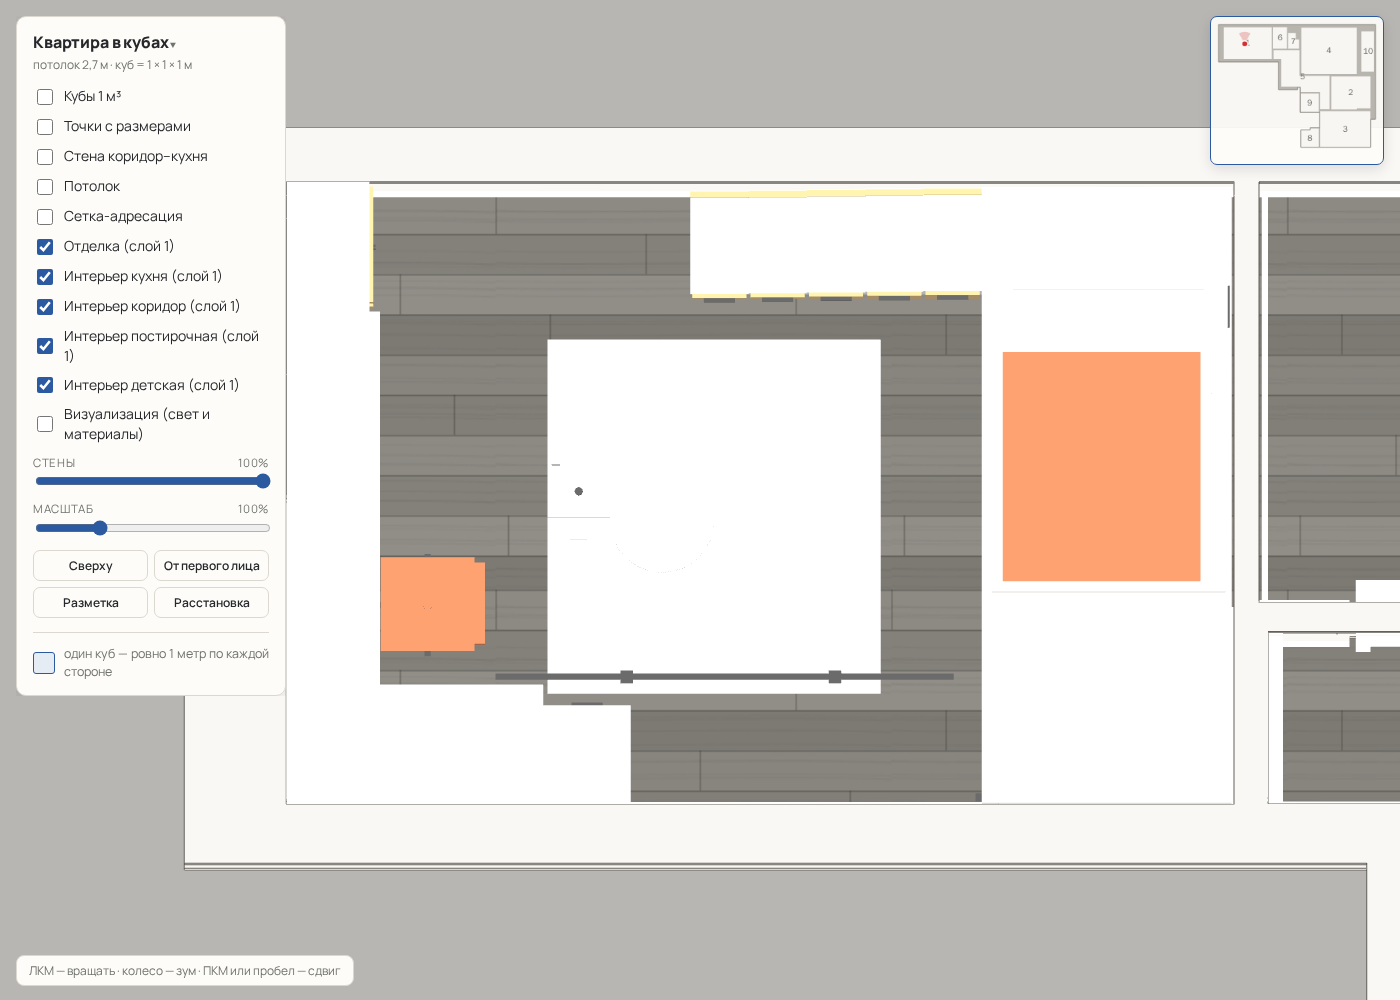
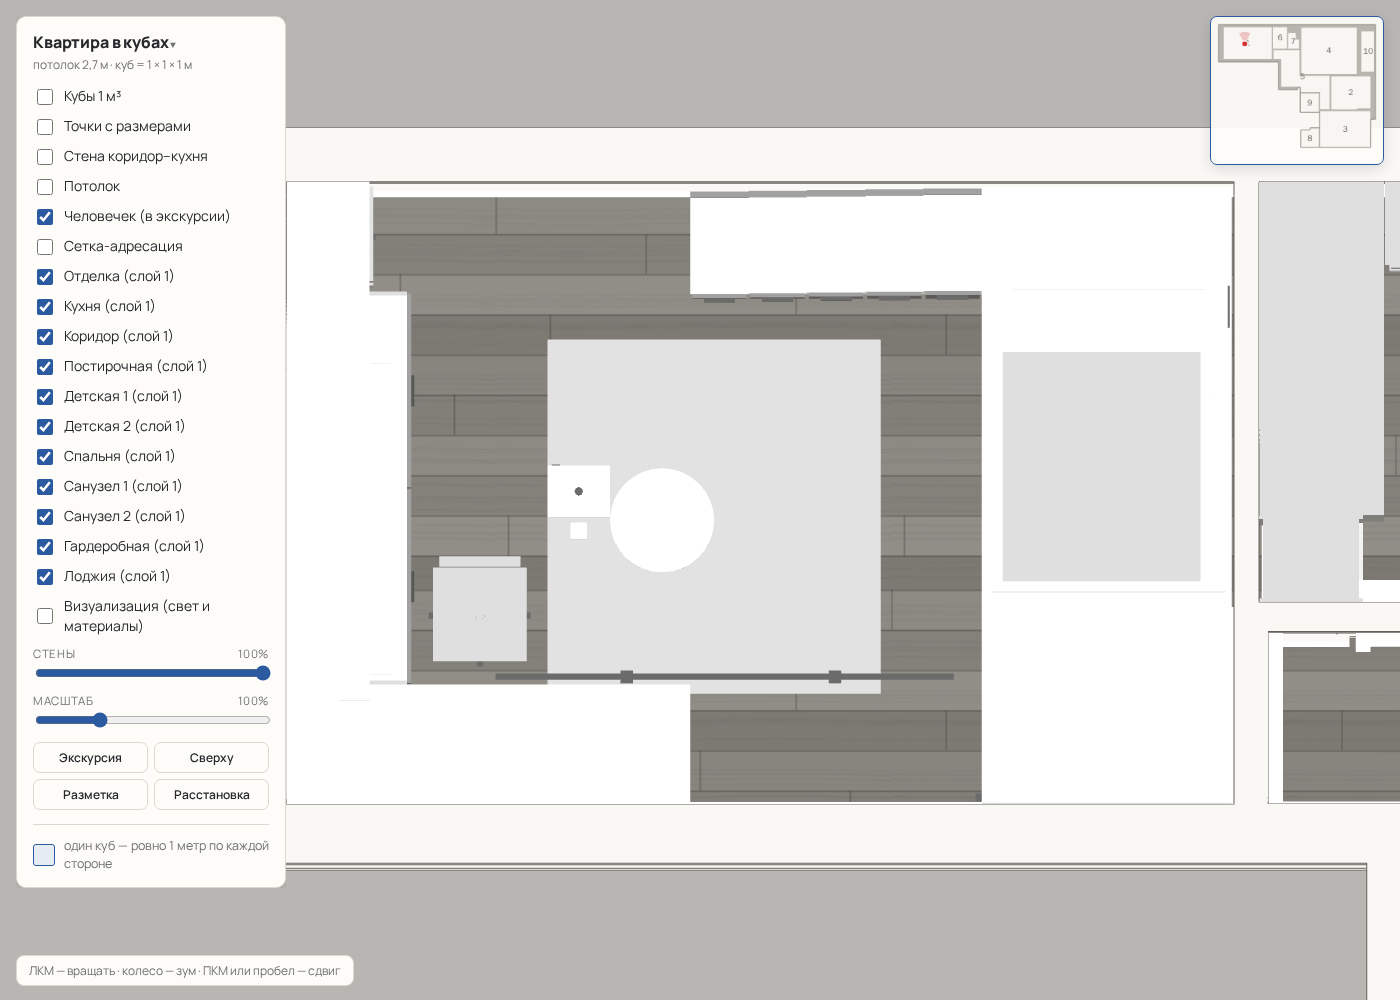
room1: straight desk along the south wall, narrower shelf units, window seat, grey materials

diff --git a/items.js b/items.js
@@ -114,49 +114,48 @@ const PHYS={}; // id → boxes
      }},
     // ---- kids room 1 (tasks/room1-kid/README.md, marks M1–M30) ----
     // Room box: x 0.896–5.445, z 1.874–4.864. Wall-mounted boxes sit 0.02–0.03 in front of the wall so they show over the wallpaper (0.015).
-    {id:'kidbed',type:'кровать-чердак с лестницей-комодом и полкой хранения',room:1,layer:'kid',pos:[2.835,1.884],rot:0,size:[2.6,2.6,2.97],fixed:'wall',build:kidBedBuild(2.0,mat.oak,mat.terra)},
-    {id:'kiddesk',type:'угловой стол: вдоль окна 2.39 м и вдоль южной стены 1.23 м',room:1,layer:'kid',pos:[0.896,2.474],rot:0,size:[1.234,0.72,2.39],fixed:'wall',
-     build(b){
-       b(0,0.45,0.68,0.72,0,2.39,mat.hpl); b(0.45,1.234,0.68,0.72,1.79,2.39,mat.hpl);                 // worktop: west wing (depth 0.45, like the shelf unit) and south wing (depth 0.60)
-       b(0.02,0.43,0,0.68,0,0.02,mat.kbody); b(1.214,1.234,0,0.68,1.81,2.37,mat.kbody);               // end panels: north (at the shelf unit) and east
-       b(0.05,0.43,0,0.68,0.98,1.0,mat.kbody);                                                        // middle support under the west wing, clear of the chair
-       b(0.10,0.20,0.72,0.725,0.59,1.19,mat.knob);                                                     // vent grille over the radiator, 0.60 × 0.10
-     }},
-    {id:'kidped',type:'тумба с 3 ящиками у торца стола, столешница вровень',room:1,layer:'kid',pos:[2.13,4.364],rot:0,size:[0.42,0.72,0.50],fixed:'wall',
-     build(b){ b(0.02,0.40,0,0.68,0.02,0.50,mat.kbody); b(0,0.42,0.68,0.72,0,0.50,mat.hpl);
-       [0.06,0.26,0.46].forEach(y=>{ b(0.02,0.40,y,y+0.18,0,0.02,mat.oak); b(0.135,0.285,y+0.11,y+0.13,-0.015,0,mat.knob); }); }}, // drawer fronts to the room
-    {id:'kidchair',type:'рабочее кресло, регулируемое',room:1,layer:'kid',pos:[1.30,3.60],rot:0,size:[0.55,0.85,0.55],
+    {id:'kidbed',type:'кровать-чердак с лестницей-комодом и полкой хранения',room:1,layer:'kid',pos:[2.835,1.884],rot:0,size:[2.6,2.6,2.97],fixed:'wall',build:kidBedBuild(2.0,mat.wdoor,mat.cushion)},
+    {id:'kiddesk',type:'стол прямой 1.94 × 0.60 вдоль южной стены, от западной стены до стойки кровати; стеллаж у окна стоит на его западном краю',room:1,layer:'kid',pos:[0.896,4.264],rot:0,size:[1.939,0.72,0.60],fixed:'wall',
+     build(b){ b(0,1.939,0.68,0.72,0,0.60,mat.kbody); b(0.02,0.04,0,0.68,0.02,0.58,mat.kbody); b(1.899,1.919,0,0.68,0.02,0.58,mat.kbody); }}, // worktop, end panels (the pedestal carries the east half)
+    {id:'kidped',type:'тумба с 3 ящиками под столом у восточного торца, фасады к комнате',room:1,layer:'kid',pos:[2.375,4.364],rot:0,size:[0.42,0.68,0.50],
+     build(b){ b(0.02,0.40,0,0.68,0.02,0.50,mat.kbody);
+       [0.06,0.26,0.46].forEach(y=>{ b(0.02,0.40,y,y+0.18,0,0.02,mat.wdoor); b(0.135,0.285,y+0.11,y+0.13,-0.015,0,mat.knob); }); }},
+    {id:'kidchair',type:'рабочее кресло, регулируемое, лицом к столу',room:1,layer:'kid',pos:[1.55,4.20],rot:270,size:[0.55,0.85,0.55],
      build(b,g){
-       b(0.05,0.50,0.42,0.47,0.05,0.50,mat.terra); b(0.50,0.55,0.47,0.85,0.08,0.47,mat.terra);      // seat and back, faces the window
+       b(0.05,0.50,0.42,0.47,0.05,0.50,mat.cushion); b(0.50,0.55,0.47,0.85,0.08,0.47,mat.cushion);   // seat and back; rot 270 puts the back on the north side
        const c=new THREE.Mesh(new THREE.CylinderGeometry(0.025,0.025,0.39,10),mat.knob); c.position.set(0.275,0.225,0.275); g.add(c); // gas lift
        b(0.03,0.52,0,0.03,0.26,0.29,mat.knob); b(0.26,0.29,0,0.03,0.03,0.52,mat.knob);                // base cross
      }},
-    {id:'kidshelf',type:'стеллаж узкий в углу, фасадом к двери',room:1,layer:'kid',pos:[0.896,2.474],rot:270,size:[0.60,2.70,0.43],fixed:'wall',
+    {id:'kidshelf',type:'стеллаж узкий в северо-западном углу, фасадом к двери; 0.50 вдоль стены — на 0.10 уже, чтобы открыть окно',room:1,layer:'kid',pos:[0.896,2.374],rot:270,size:[0.50,2.70,0.43],fixed:'wall',
      build(b){
-       const W=0.60, D=0.40, t=0.02;
-       b(0,W,0,t,0,D,mat.kbody); b(0,W,2.7-t,2.7,0,D,mat.kbody); b(0,W,t,2.7-t,0,t,mat.oak);           // bottom, top, oak back
+       const W=0.50, D=0.40, t=0.02;
+       b(0,W,0,t,0,D,mat.kbody); b(0,W,2.7-t,2.7,0,D,mat.kbody); b(0,W,t,2.7-t,0,t,mat.wpanel);           // bottom, top, oak back
        b(0,t,t,2.7-t,t,D,mat.kbody); b(W-t,W,t,2.7-t,t,D,mat.kbody);                                  // sides
        [0.90,1.27,1.63,2.00].forEach(y=>b(t,W-t,y-t,y,t,D,mat.kbody));                                 // shelves: closed 0–0.9, open cells 0.9–2.0, attic 2.0–2.7
-       b(t+0.003,W-t-0.003,t+0.003,0.90-t-0.003,D,D+0.018,mat.oak); b(W/2-0.005,W/2+0.005,0.78,0.86,D+0.018,D+0.03,mat.knob);   // lower door
-       b(t+0.003,W-t-0.003,2.0+0.003,2.7-t-0.003,D,D+0.018,mat.oak); b(W/2-0.005,W/2+0.005,2.05,2.13,D+0.018,D+0.03,mat.knob); // attic door
+       b(t+0.003,W-t-0.003,t+0.003,0.90-t-0.003,D,D+0.018,mat.wpanel); b(W/2-0.005,W/2+0.005,0.78,0.86,D+0.018,D+0.03,mat.knob);   // lower door
+       b(t+0.003,W-t-0.003,2.0+0.003,2.7-t-0.003,D,D+0.018,mat.wpanel); b(W/2-0.005,W/2+0.005,2.05,2.13,D+0.018,D+0.03,mat.knob); // attic door
      }},
-    {id:'kidshelf2',type:'стеллаж узкий с открытыми полками в юго-западном углу, от стола до потолка',room:1,layer:'kid',pos:[0.896,4.864],rot:270,size:[0.60,2.70,0.25],fixed:'wall',
+    {id:'kidshelf2',type:'стеллаж узкий с открытыми полками в юго-западном углу, от стола до потолка; 0.50 вдоль стены',room:1,layer:'kid',pos:[0.896,4.864],rot:270,size:[0.50,2.70,0.25],fixed:'wall',
      build(b){
-       const W=0.60, D=0.25, t=0.02, Y0=0.72; // shallow: 0.20 of the desk stays usable in front of it
-       b(0,W,Y0,Y0+t,0,D,mat.kbody); b(0,W,2.7-t,2.7,0,D,mat.kbody); b(0,W,Y0+t,2.7-t,0,t,mat.oak);   // bottom on the desk, top, oak back
+       const W=0.50, D=0.25, t=0.02, Y0=0.72; // shallow: 0.20 of the desk stays usable in front of it
+       b(0,W,Y0,Y0+t,0,D,mat.kbody); b(0,W,2.7-t,2.7,0,D,mat.kbody); b(0,W,Y0+t,2.7-t,0,t,mat.wpanel);   // bottom on the desk, top, oak back
        b(0,t,Y0+t,2.7-t,t,D,mat.kbody); b(W-t,W,Y0+t,2.7-t,t,D,mat.kbody);                        // sides
        [1.20,1.70,2.20].forEach(y=>b(t,W-t,y-t,y,t,D,mat.kbody));                                  // 4 open cells
      }},
-    {id:'kidshelf3',type:'полка над окном между стеллажами, одна открытая ячейка',room:1,layer:'kid',pos:[0.896,2.474],rot:0,size:[0.40,2.70,1.79],fixed:'wall',
-     build(b){ b(0,0.40,2.30,2.32,0,1.79,mat.kbody); b(0,0.40,2.68,2.70,0,1.79,mat.kbody); b(0,0.02,2.32,2.68,0,1.79,mat.oak); }}, // bottom, top, oak back over the window lintel
+    {id:'kidshelf3',type:'полка над окном между стеллажами, одна открытая ячейка 1.99',room:1,layer:'kid',pos:[0.896,2.374],rot:0,size:[0.40,2.70,1.99],fixed:'wall',
+     build(b){ b(0,0.40,2.30,2.32,0,1.99,mat.kbody); b(0,0.40,2.68,2.70,0,1.99,mat.kbody); b(0,0.02,2.32,2.68,0,1.99,mat.wpanel); }},
+    {id:'windowseat1',type:'лежанка у окна между стеллажами с 2 глубокими ящиками и матрасиком, 1.89 × 0.60 (как в комнате 2)',room:1,layer:'kid',pos:[0.896,2.374],rot:0,size:[0.60,0.65,1.89],fixed:'wall',
+     build(b){ const L=1.89, D=0.60; b(0.02,0.55,0,0.05,0.05,L-0.05,mat.dark); b(0,0.58,0.05,0.45,0,L,mat.body);
+       [0.01,L/2+0.005].forEach(z=>{ b(0.58,0.60,0.06,0.44,z,z+L/2-0.015,mat.wdoor); b(0.60,0.615,0.24,0.26,z+0.39,z+0.54,mat.handle); }); // deep drawers, fronts east
+       b(0,0.58,0.45,0.53,0.02,L-0.02,mat.kmat); [0.05,L-0.35].forEach(z=>b(0.10,0.50,0.53,0.65,z,z+0.30,mat.pillow)); }},   // mattress and two pillows at the shelf units // bottom, top, oak back over the window lintel
     {id:'kidsofa',type:'диванчик в нише под кроватью',room:1,layer:'kid',pos:[4.65,2.05],rot:0,size:[0.75,0.80,1.60],
      build(b){
-       b(0,0.75,0.10,0.45,0,1.60,mat.fabric); b(0.60,0.75,0.45,0.80,0,1.60,mat.fabric);            // seat and back to the east wall
-       b(0,0.60,0.45,0.60,0,0.15,mat.fabric); b(0,0.60,0.45,0.60,1.45,1.60,mat.fabric);              // armrests
+       b(0,0.75,0.10,0.45,0,1.60,mat.sofa); b(0.60,0.75,0.45,0.80,0,1.60,mat.sofa);            // seat and back to the east wall
+       b(0,0.60,0.45,0.60,0,0.15,mat.sofa); b(0,0.60,0.45,0.60,1.45,1.60,mat.sofa);              // armrests
        [[0.03,0.03],[0.69,0.03],[0.03,1.54],[0.69,1.54]].forEach(([x,z])=>b(x,x+0.03,0,0.10,z,z+0.03,mat.knob)); // legs
      }},
     {id:'kidrug',type:'ковёр моющийся',room:1,layer:'kid',pos:[2.15,2.60],rot:0,size:[1.60,0.01,1.70],
-     build(b){ b(0,1.6,0,0.01,0,1.7,mat.rug); }},
+     build(b){ b(0,1.6,0,0.01,0,1.7,mat.wpanel); }},
     {id:'projector',type:'проектор короткофокусный на потолке (throw ≈0.57, экран M13)',room:1,layer:'kid',pos:[2.15,3.235],rot:0,size:[0.30,2.70,0.25],fixed:'wall',
      build(b,g){ b(0,0.30,2.44,2.56,0,0.25,mat.kbody); b(0.02,0.06,2.47,2.53,-0.005,0,mat.knob); const c=new THREE.Mesh(new THREE.CylinderGeometry(0.02,0.02,0.14,8),mat.knob); c.position.set(0.15,2.63,0.125); g.add(c); }}, // body, lens to the west, bracket
     {id:'screen',type:'кассета моторизованного экрана 1.70×0.96 под полкой (свёрнут)',room:1,layer:'kid',pos:[0.99,2.474],rot:0,size:[0.12,2.30,1.79],fixed:'wall',
@@ -178,7 +177,7 @@ const PHYS={}; // id → boxes
     {id:'sock2',type:'розетки 2+2 USB у стола, восточный торец',room:1,layer:'kid',pos:[2.06,4.834],rot:0,size:[0.08,0.94,0.01],fixed:'wall',build(b){ b(0,0.08,0.86,0.94,0,0.01,mat.lamp); }},
     {id:'sock3',type:'розетка + USB в нише под кроватью, вывод HDMI от проектора',room:1,layer:'kid',pos:[5.415,3.69],rot:0,size:[0.01,0.44,0.08],fixed:'wall',build(b){ b(0,0.01,0.36,0.44,0,0.08,mat.lamp); }},
     {id:'sock4',type:'розетка у изголовья кровати (ночник, телефон)',room:1,layer:'kid',pos:[4.66,1.894],rot:0,size:[0.08,2.09,0.01],fixed:'wall',build(b){ b(0,0.08,2.01,2.09,0,0.01,mat.lamp); }},
-    {id:'sock5',type:'розетка общего назначения (пылесос, увлажнитель)',room:1,layer:'kid',pos:[2.56,4.834],rot:0,size:[0.08,0.34,0.01],fixed:'wall',build(b){ b(0,0.08,0.26,0.34,0,0.01,mat.lamp); }},
+    {id:'sock5',type:'розетка общего назначения (пылесос, увлажнитель), восточнее стойки кровати',room:1,layer:'kid',pos:[2.96,4.834],rot:0,size:[0.08,0.34,0.01],fixed:'wall',build(b){ b(0,0.08,0.26,0.34,0,0.01,mat.lamp); }},
     {id:'sock6',type:'розетка в потолке для проектора',room:1,layer:'kid',pos:[2.26,3.51],rot:0,size:[0.08,2.70,0.08],fixed:'wall',build(b){ b(0,0.08,2.69,2.70,0,0.08,mat.lamp); }},
     {id:'sock7',type:'розетка в потолке для мотора экрана',room:1,layer:'kid',pos:[1.06,2.11],rot:0,size:[0.08,2.70,0.08],fixed:'wall',build(b){ b(0,0.08,2.69,2.70,0,0.08,mat.lamp); }},
     // ---- kids room 2 (tasks/room2-kid/README.md, marks M1–M22; grey materials only) ----

diff --git a/tools/check.js b/tools/check.js
@@ -358,7 +358,12 @@ const { chromium } = require('playwright');
     const warn = kids.map(it => [it.id, LAY.warnings(it.id)]).filter(([, w]) => w.length).map(([id, w]) => id + ': ' + w.join('; '));
     const tops = ITEM_GROUPS.kidbed.children.map(o => bb(o)).filter(b => b.min.y < 0.001 && b.max.y <= 1.51 && b.max.z - b.min.z > 0.4).map(b => Math.round(b.max.y * 100) / 100).sort();
     const sofaTop = bb(ITEM_GROUPS.kidsofa).max.y;
-    return { n: kids.length, inside, hitPlat, warn, tops, sofaTop, bedPos: ITEM_GROUPS.kidbed.userData.pos };
+    const colored = []; kids.forEach(it => ITEM_GROUPS[it.id].traverse(o => { if (!o.isMesh || o.material.isMeshBasicMaterial || o.material.transparent) return; const c = o.material.color; if (Math.max(c.r, c.g, c.b) - Math.min(c.r, c.g, c.b) > 0.08 && !colored.includes(it.id)) colored.push(it.id); }));
+    const desk = bb(ITEM_GROUPS.kiddesk), seat = bb(ITEM_GROUPS.windowseat1), shelfN = bb(ITEM_GROUPS.kidshelf), shelfS = bb(ITEM_GROUPS.kidshelf2), win = PLAN.windows[0];
+    const deskStraight = desk.max.z - desk.min.z <= 0.61 && desk.max.z > 4.86 && desk.max.x - desk.min.x > 1.9;
+    const seatOk = seat.min.z >= shelfN.max.z - 0.001 && seat.max.z <= desk.min.z + 0.001 && seat.max.x <= 1.52;
+    const windowFree = shelfN.max.z <= win.z0 - 0.09 && shelfS.min.z >= win.z1 + 0.09;
+    return { n: kids.length, inside, hitPlat, warn, tops, sofaTop, bedPos: ITEM_GROUPS.kidbed.userData.pos, colored, deskStraight, seatOk, windowFree };
   });
   if (kid.n < 24) problems.push('комната 1: предметов слоя kid ' + kid.n + ' (< 24)');
   if (kid.inside.length) problems.push('комната 1: предметы вне помещения: ' + kid.inside.join(', '));
@@ -367,6 +372,10 @@ const { chromium } = require('playwright');
   if (kid.warn.length) problems.push('комната 1: предупреждения расстановки:\n    ' + kid.warn.join('\n    '));
   if (kid.tops.join() !== '0.3,0.6,0.9,1.2,1.5') problems.push('комната 1: ступени не 5 × 0.30: ' + kid.tops.join());
   if (Math.abs(kid.bedPos[0] + 1.4 - 4.235) > 1e-9) problems.push('комната 1: платформа кровати сдвинулась: pos.x=' + kid.bedPos[0]);
+  if (kid.colored.length) problems.push('комната 1: цветные материалы у ' + kid.colored.join(', '));
+  if (!kid.deskStraight) problems.push('комната 1: стол не прямой вдоль южной стены');
+  if (!kid.seatOk) problems.push('комната 1: лежанка не между стеллажом и столом у окна');
+  if (!kid.windowFree) problems.push('комната 1: стеллажи не отступают от окна на 0.10');
   // screenshots of room 1: plan, from the door, from the desk to the gallery wall, from under the bed to the window
   await page.evaluate(() => { setView('top'); controls.lookDown(); const hh = 2.4; controls.r = hh / TAN22; controls.target.set(3.17 - ((PANEL_W - MAP_W) / 2) * (2 * hh / innerHeight), 0, 3.37); controls.apply(); });
   await page.waitForTimeout(300); await page.screenshot({ path: path.join(outDir, 'room1-top.png') });

diff --git a/tasks/room1-kid/README.md b/tasks/room1-kid/README.md
@@ -376,3 +376,16 @@ issue: —
 
 - Не менялись `items.js`/`app.js` — это задача агента-исполнителя.
 - Не проверялось в браузере: расстановка составлена по координатам, а не по скриншотам.
+
+## Правки пользователя 2026-09-06 (`.local/room1_10.png`)
+
+- Все материалы комнаты серые (цвет будет отдельным слоем): фасады кровати и тумбы `wdoor`, одеяло и кресло `cushion`,
+  задники стеллажей `wpanel`, диванчик `sofa`, ковёр `wpanel`, столешницы `kbody`. Тест room1-kid проверяет серость.
+- Стол прямой 1.94 × 0.60 вдоль южной стены от западной стены до стойки кровати (x 0.896–2.835); стеллаж у окна
+  стоит на его западном краю, тумба с 3 ящиками — под столом у восточного торца (x 2.375–2.795), кресло лицом к столу
+  (rot 270, x 1.55–2.10, z 3.65–4.20). Розетка общего назначения перенесена восточнее стойки кровати (x 2.96).
+- Стеллажи уже на 0.10 вдоль окна: северо-западный z 1.874–2.374, юго-западный z 4.364–4.864 — окно (z 2.47–4.27)
+  открыто с запасом 0.10 с каждой стороны; полка над окном между ними 1.99.
+- Лежанка у окна `windowseat1` как в комнате 2: 1.89 × 0.60 между стеллажом и столом (z 2.374–4.264), 2 глубоких ящика
+  фасадами в комнату, матрасик 0.45–0.53, две подушки у стеллажей. Радиатор под окном теперь под лежанкой —
+  вентрешётку в её крышке добавить при детализации.
